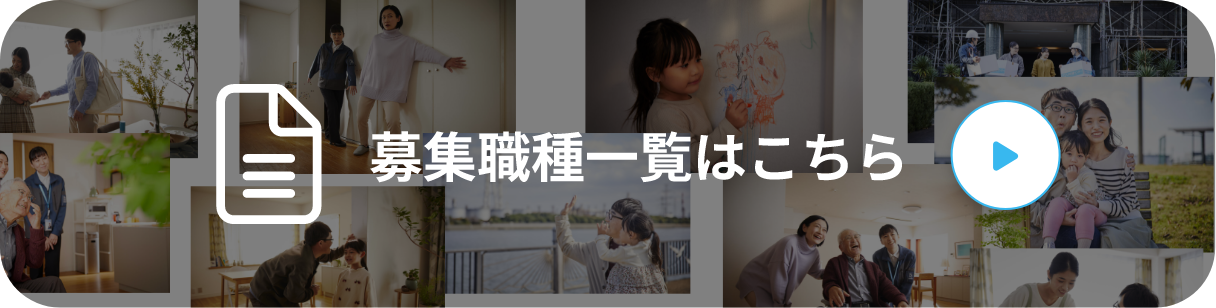
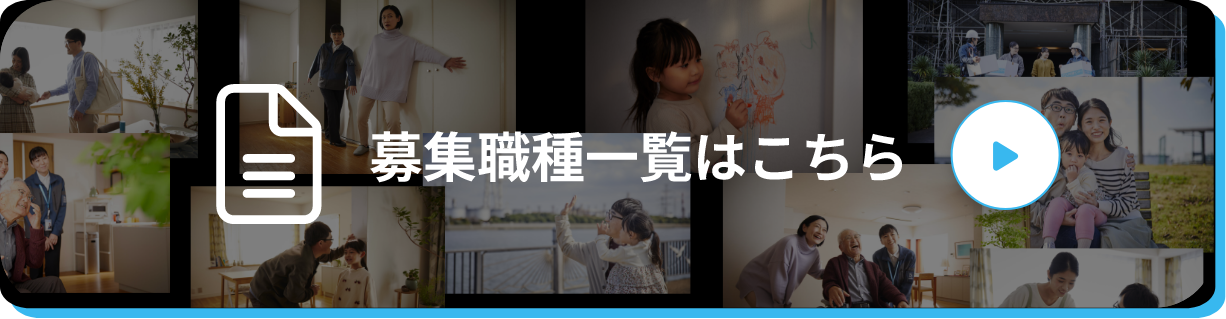
💄 全体的なスタイル調整

diff --git a/src/assets/css/template/index.css b/src/assets/css/template/index.css
@@ -2116,6 +2116,12 @@
   margin: 0 auto;
   max-width: 607px;
   width: 100%;
+  opacity: 1;
+  transition: opacity 0.5s;
+}
+.reqruit__link:hover, .reqruit__link:focus {
+  opacity: 0.7;
+  transition: opacity 0.5s;
 }
 
 .news {
@@ -2325,7 +2331,7 @@
     flex-direction: column;
   }
 }
-.footer_logo {
+.footer__logo {
   width: 159.04px;
 }
 .footer .f-nav__list {

diff --git a/src/assets/css/template/parts/home/_reqruit.scss b/src/assets/css/template/parts/home/_reqruit.scss
@@ -17,5 +17,12 @@
     margin: 0 auto;
     max-width: 607px;
     width: 100%;
+    opacity: 1;
+    transition: opacity 0.5s;
+    &:hover,
+    &:focus {
+      opacity: 0.7;
+      transition: opacity 0.5s;
+    }
   }
 }

diff --git a/src/assets/css/template/interview-post.css b/src/assets/css/template/interview-post.css
@@ -262,7 +262,7 @@
     flex-direction: column;
   }
 }
-.footer_logo {
+.footer__logo {
   width: 159.04px;
 }
 .footer .f-nav__list {

diff --git a/src/assets/css/template/interview.css b/src/assets/css/template/interview.css
@@ -262,7 +262,7 @@
     flex-direction: column;
   }
 }
-.footer_logo {
+.footer__logo {
   width: 159.04px;
 }
 .footer .f-nav__list {

diff --git a/src/assets/css/template/reqruit-post.css b/src/assets/css/template/reqruit-post.css
@@ -262,7 +262,7 @@
     flex-direction: column;
   }
 }
-.footer_logo {
+.footer__logo {
   width: 159.04px;
 }
 .footer .f-nav__list {

diff --git a/src/assets/css/util/_footer.scss b/src/assets/css/util/_footer.scss
@@ -9,7 +9,7 @@
       flex-direction: column;
     }
   }
-  &_logo {
+  &__logo {
     width: 159.04px;
   }
   .f-nav {

diff --git a/src/parts/home/news.php b/src/parts/home/news.php
@@ -8,7 +8,7 @@
                     $args = array(
                         'post_type' => 'news',
                         'posts_per_page' => 9,
-                        'order' => 'ASC'
+                        'order' => 'DESC'
 
                     );
                     $my_query = new WP_Query($args); ?>
